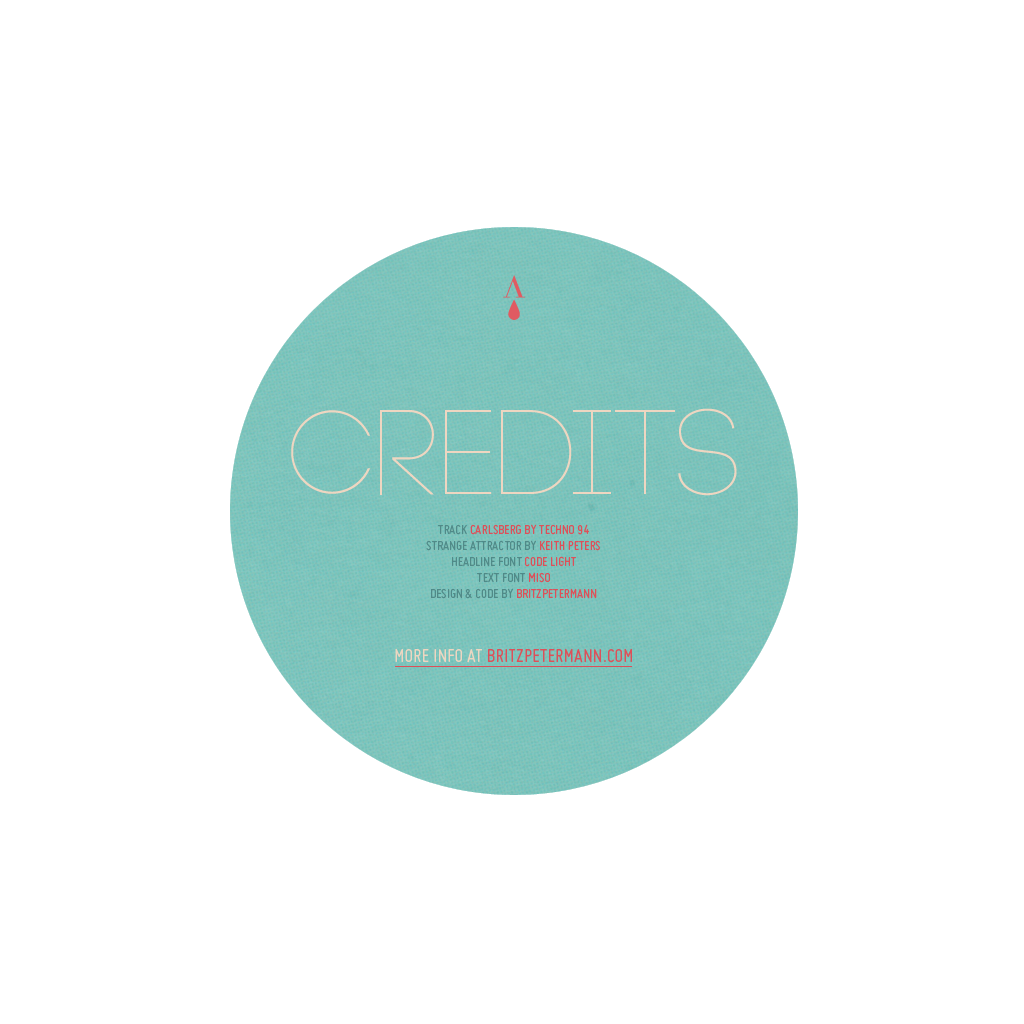
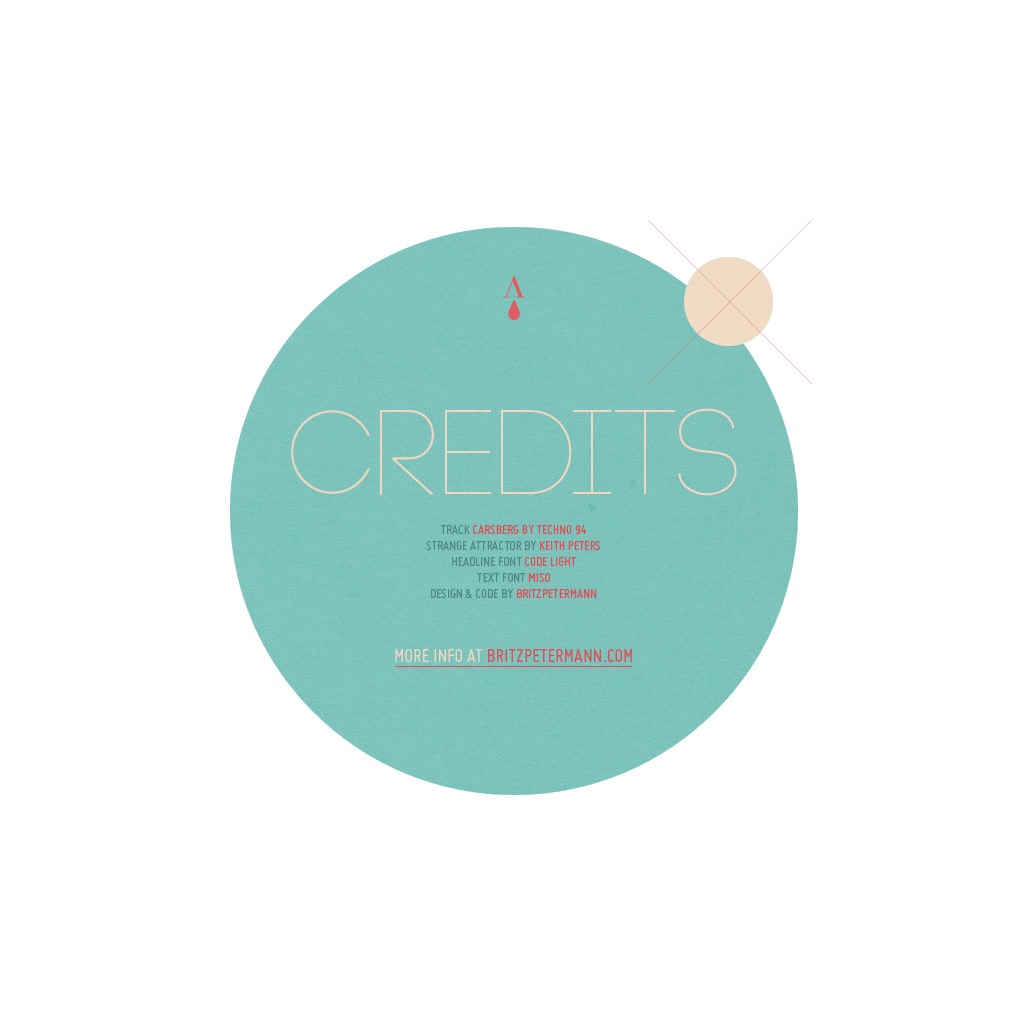
replaced background, added close button to credits fixed typo in credits

Changed region(s): [[0.6562, 0.25, 0.7812, 0.3438], [0.4375, 0.5, 0.5625, 0.5312]]

diff --git a/AKEMI/release/bin/Main.js b/AKEMI/release/bin/Main.js
@@ -1614,7 +1614,7 @@ sa.controller.Launcher.prototype.fontsLoaded = function() {
 	group.add(this.createTextureTask("image/Stones2.png",sa.view.TextureId.STONES_LEFT,this.textureRegistry.gl.LINEAR));
 	group.add(this.createTextureTask("image/RockLeft2.png",sa.view.TextureId.ROCK_LEFT,this.textureRegistry.gl.LINEAR));
 	group.add(this.createTextureTask("image/RockRight3.png",sa.view.TextureId.ROCK_RIGHT,this.textureRegistry.gl.LINEAR));
-	group.add(this.createTextureTask("image/BG.jpg",sa.view.TextureId.BACKGROUND,this.textureRegistry.gl.NEAREST));
+	group.add(this.createTextureTask("image/BG3.jpg",sa.view.TextureId.BACKGROUND,this.textureRegistry.gl.NEAREST));
 	group.add(this.createTextureTask("image/Credits2.png",sa.view.TextureId.CREDITS,this.textureRegistry.gl.LINEAR));
 	group.add(this.createImageTask("image/SplashWithText.jpg",sa.view.ImageId.SPLASH));
 	group.add(this.createImageTask("image/CreditsBt.png",sa.view.ImageId.CREDITS_BTN));
@@ -4689,6 +4689,7 @@ sa.view.CanvasView.prototype.handleLauncherStart = function(event) {
 	this.backgroundRenderer.cameraMatrix = this.commonModel.cameraMatrix;
 	this.backgroundRenderer.init(this.gl);
 	this.creditsRenderer = new sa.view.CreditsRenderer();
+	this.creditsRenderer.commonModel = this.commonModel;
 	this.creditsRenderer.texture = this.textureRegistry.get(sa.view.TextureId.CREDITS);
 	this.creditsRenderer.projectionMatrix = this.commonModel.projectionMatrix;
 	this.creditsRenderer.cameraMatrix = this.commonModel.cameraMatrix;
@@ -4755,7 +4756,6 @@ sa.view.CanvasView.prototype.renderScene = function() {
 	this.gl.viewport(0,0,this.canvas.width,this.canvas.height);
 	this.saRenderer.peak = this.commonModel.peak;
 	this.saRenderer.render(this.canvas.width,this.canvas.height);
-	this.creditsRenderer.showCredits = this.commonModel.showCredits;
 	this.creditsRenderer.render(this.canvas.width,this.canvas.height);
 	this.gl.enable(this.gl.BLEND);
 	this.gl.blendFunc(this.gl.SRC_ALPHA,this.gl.ONE);
@@ -5145,18 +5145,19 @@ sa.view.CreditsRenderer = function(p) { if( p === $_ ) return; {
 	this.moveSet.acceleration = 0.03;
 	this.buttons = new Array();
 	var lineHeight = 0.031;
-	this.createButton(0.17,0.015,0.035,"http://www.audiotool.com/track/carsberg");
-	this.createButton(0.17,0.015,0.035 + lineHeight,"http://www.bit-101.com");
-	this.createButton(0.17,0.015,0.035 + lineHeight * 2,"http://fontfabric.com/code-pro");
-	this.createButton(0.17,0.015,0.035 + lineHeight * 3,"http://www.omkrets.se/typografi");
-	this.createButton(0.17,0.015,0.035 + lineHeight * 4,"http://www.britzpetermann.com");
-	this.createButton(0.25,0.02,0.28,"http://www.britzpetermann.com/blog/akemi");
+	this.createButton(0.19,0.19,0.4,-0.4,"close");
+	this.createButton(0.17,0.015,0,0.035,"http://www.audiotool.com/track/carsberg");
+	this.createButton(0.17,0.015,0,0.035 + lineHeight,"http://www.bit-101.com");
+	this.createButton(0.17,0.015,0,0.035 + lineHeight * 2,"http://fontfabric.com/code-pro");
+	this.createButton(0.17,0.015,0,0.035 + lineHeight * 3,"http://www.omkrets.se/typografi");
+	this.createButton(0.17,0.015,0,0.035 + lineHeight * 4,"http://www.britzpetermann.com");
+	this.createButton(0.25,0.02,0,0.28,"http://www.britzpetermann.com/blog/akemi");
 }}
 sa.view.CreditsRenderer.__name__ = ["sa","view","CreditsRenderer"];
+sa.view.CreditsRenderer.prototype.commonModel = null;
 sa.view.CreditsRenderer.prototype.texture = null;
 sa.view.CreditsRenderer.prototype.projectionMatrix = null;
 sa.view.CreditsRenderer.prototype.cameraMatrix = null;
-sa.view.CreditsRenderer.prototype.showCredits = null;
 sa.view.CreditsRenderer.prototype.gl = null;
 sa.view.CreditsRenderer.prototype.shaderProgram = null;
 sa.view.CreditsRenderer.prototype.shaderProgramButton = null;
@@ -5195,7 +5196,7 @@ sa.view.CreditsRenderer.prototype.init = function(gl) {
 }
 sa.view.CreditsRenderer.prototype.render = function(width,height) {
 	this.moveSet.move();
-	if(this.showCredits) this.moveSet.to = this.defaultTargetIn;
+	if(this.commonModel.showCredits) this.moveSet.to = this.defaultTargetIn;
 	else this.moveSet.to = this.defaultTargetOut;
 	if(this.moveSet.current == this.defaultTargetOut) return;
 	this.gl.useProgram(this.shaderProgram);
@@ -5229,7 +5230,7 @@ sa.view.CreditsRenderer.prototype.render = function(width,height) {
 			viewWorldMatrixButton.appendScale(1,-1,1);
 			viewWorldMatrixButton.appendTranslation(0,this.moveSet.current,-7);
 			viewWorldMatrixButton.appendScale(scale,scale,1);
-			viewWorldMatrixButton.appendTranslation(0,button.y,0);
+			viewWorldMatrixButton.appendTranslation(button.pos.x,button.pos.y,0);
 			viewWorldMatrixButton.appendScale(button.size.x,button.size.y,1);
 			if(sa.view.CreditsRenderer.DEBUG_DRAW_HITAREAS) {
 				this.gl.bindBuffer(this.gl.ARRAY_BUFFER,this.vertexBuffer);
@@ -5264,10 +5265,10 @@ sa.view.CreditsRenderer.prototype.computeScale = function(width,height) {
 	tl.multiply(width / 2,-height / 2,1,1);
 	return 1024 / tl.x;
 }
-sa.view.CreditsRenderer.prototype.createButton = function(width,height,y,url) {
+sa.view.CreditsRenderer.prototype.createButton = function(width,height,x,y,url) {
 	var button = new sa.view.Button();
 	button.size = new Vec2(width,height);
-	button.y = y;
+	button.pos = new Vec2(x,y);
 	button.isActive = false;
 	button.url = url;
 	this.buttons.push(button);
@@ -5303,7 +5304,12 @@ sa.view.CreditsRenderer.prototype.mouseDown = function(mousePos) {
 		var button = _g1[_g];
 		++_g;
 		if(button.isActive) {
-			js.Lib.window.open(button.url,"_self");
+			if(button.url == "close") {
+				this.commonModel.showCredits = false;
+			}
+			else {
+				js.Lib.window.open(button.url,"_self");
+			}
 			return;
 		}
 	}
@@ -5314,7 +5320,7 @@ sa.view.Button = function(p) { if( p === $_ ) return; {
 }}
 sa.view.Button.__name__ = ["sa","view","Button"];
 sa.view.Button.prototype.size = null;
-sa.view.Button.prototype.y = null;
+sa.view.Button.prototype.pos = null;
 sa.view.Button.prototype.isActive = null;
 sa.view.Button.prototype.url = null;
 sa.view.Button.prototype.__class__ = sa.view.Button;
@@ -6281,7 +6287,7 @@ sa.Config.__rtti = "<class path=\"sa.Config\" params=\"\">\n\t<implements path=\
 sa.view.MainInterfaceView.__meta__ = { fields : { imageRegistry : { Inject : null}, commonModel : { Inject : null}, handleLauncherStart : { MessageHandler : null}, handleStageResize : { MessageHandler : null}}};
 sa.view.MainInterfaceView.__rtti = "<class path=\"sa.view.MainInterfaceView\" params=\"\">\n\t<implements path=\"haxe.rtti.Infos\"/>\n\t<imageRegistry><c path=\"GLImageRegistry\"/></imageRegistry>\n\t<commonModel><c path=\"sa.model.CommonModel\"/></commonModel>\n\t<stage public=\"1\"><c path=\"GLStage\"/></stage>\n\t<blend><c path=\"GLDisplayObject\"/></blend>\n\t<startButton><c path=\"GLInteractiveObject\"/></startButton>\n\t<creditsButton><c path=\"GLInteractiveObject\"/></creditsButton>\n\t<modeButton><c path=\"GLInteractiveObject\"/></modeButton>\n\t<handleLauncherStart set=\"method\" line=\"37\"><f a=\"event\">\n\t<c path=\"sa.event.LauncherStart\"/>\n\t<e path=\"Void\"/>\n</f></handleLauncherStart>\n\t<start public=\"1\" set=\"method\" line=\"76\"><f a=\"\"><e path=\"Void\"/></f></start>\n\t<handleStartFadeInComplete set=\"method\" line=\"82\"><f a=\"tween\">\n\t<c path=\"GLTween\"/>\n\t<e path=\"Void\"/>\n</f></handleStartFadeInComplete>\n\t<handeClick set=\"method\" line=\"87\"><f a=\"?obj\">\n\t<c path=\"GLInteractiveObject\"/>\n\t<e path=\"Void\"/>\n</f></handeClick>\n\t<handleStartFadeOutComplete set=\"method\" line=\"101\"><f a=\"tween\">\n\t<c path=\"GLTween\"/>\n\t<e path=\"Void\"/>\n</f></handleStartFadeOutComplete>\n\t<handleCreditsButtonClick set=\"method\" line=\"112\"><f a=\"obj\">\n\t<c path=\"GLInteractiveObject\"/>\n\t<e path=\"Void\"/>\n</f></handleCreditsButtonClick>\n\t<handleModeButtonClick set=\"method\" line=\"117\"><f a=\"obj\">\n\t<c path=\"GLInteractiveObject\"/>\n\t<e path=\"Void\"/>\n</f></handleModeButtonClick>\n\t<handleStageResize set=\"method\" line=\"123\"><f a=\"event\">\n\t<c path=\"sa.event.StageResize\"/>\n\t<e path=\"Void\"/>\n</f></handleStageResize>\n\t<layoutElements set=\"method\" line=\"128\"><f a=\"\"><e path=\"Void\"/></f></layoutElements>\n\t<new public=\"1\" set=\"method\" line=\"31\"><f a=\"\"><e path=\"Void\"/></f></new>\n</class>";
 sa.view.CanvasView.__meta__ = { fields : { commonModel : { Inject : null}, textureRegistry : { Inject : null}, mainInterfaceView : { Inject : null}, handleLauncherStart : { MessageHandler : null}, handleStageResize : { MessageHandler : null}}};
-sa.view.CanvasView.__rtti = "<class path=\"sa.view.CanvasView\" params=\"\">\n\t<implements path=\"haxe.rtti.Infos\"/>\n\t<commonModel><c path=\"sa.model.CommonModel\"/></commonModel>\n\t<textureRegistry><c path=\"GLTextureRegistry\"/></textureRegistry>\n\t<mainInterfaceView><c path=\"sa.view.MainInterfaceView\"/></mainInterfaceView>\n\t<gl><c path=\"WebGLRenderingContext\"/></gl>\n\t<canvas><c path=\"Canvas\"/></canvas>\n\t<framebuffer><c path=\"GLFramebuffer\"/></framebuffer>\n\t<backgroundRenderer><c path=\"sa.view.BackgroundRenderer\"/></backgroundRenderer>\n\t<underWaterRenderer><c path=\"sa.view.UnderWaterRenderer\"/></underWaterRenderer>\n\t<textureRenderer><c path=\"sa.view.TextureRenderer\"/></textureRenderer>\n\t<planktonRenderer><c path=\"sa.view.PlanktonRenderer\"/></planktonRenderer>\n\t<rocksRenderer><c path=\"sa.view.RocksRenderer\"/></rocksRenderer>\n\t<saRenderer><c path=\"sa.view.StrangeAttractorRenderer\"/></saRenderer>\n\t<displayListRenderer><c path=\"GLDisplayListRenderer\"/></displayListRenderer>\n\t<creditsRenderer><c path=\"sa.view.CreditsRenderer\"/></creditsRenderer>\n\t<handleLauncherStart set=\"method\" line=\"36\"><f a=\"event\">\n\t<c path=\"sa.event.LauncherStart\"/>\n\t<e path=\"Void\"/>\n</f></handleLauncherStart>\n\t<handleModeChanged set=\"method\" line=\"92\"><f a=\"newMode\">\n\t<c path=\"Int\"/>\n\t<e path=\"Void\"/>\n</f></handleModeChanged>\n\t<handleStageResize set=\"method\" line=\"98\"><f a=\"event\">\n\t<c path=\"sa.event.StageResize\"/>\n\t<e path=\"Void\"/>\n</f></handleStageResize>\n\t<updateCanvas set=\"method\" line=\"103\"><f a=\"\"><e path=\"Void\"/></f></updateCanvas>\n\t<tick set=\"method\" line=\"109\"><f a=\"\"><e path=\"Void\"/></f></tick>\n\t<renderScene set=\"method\" line=\"126\"><f a=\"\"><e path=\"Void\"/></f></renderScene>\n\t<renderInterface set=\"method\" line=\"158\"><f a=\"\"><e path=\"Void\"/></f></renderInterface>\n\t<new public=\"1\" set=\"method\" line=\"33\"><f a=\"\"><e path=\"Void\"/></f></new>\n</class>";
+sa.view.CanvasView.__rtti = "<class path=\"sa.view.CanvasView\" params=\"\">\n\t<implements path=\"haxe.rtti.Infos\"/>\n\t<commonModel><c path=\"sa.model.CommonModel\"/></commonModel>\n\t<textureRegistry><c path=\"GLTextureRegistry\"/></textureRegistry>\n\t<mainInterfaceView><c path=\"sa.view.MainInterfaceView\"/></mainInterfaceView>\n\t<gl><c path=\"WebGLRenderingContext\"/></gl>\n\t<canvas><c path=\"Canvas\"/></canvas>\n\t<framebuffer><c path=\"GLFramebuffer\"/></framebuffer>\n\t<backgroundRenderer><c path=\"sa.view.BackgroundRenderer\"/></backgroundRenderer>\n\t<underWaterRenderer><c path=\"sa.view.UnderWaterRenderer\"/></underWaterRenderer>\n\t<textureRenderer><c path=\"sa.view.TextureRenderer\"/></textureRenderer>\n\t<planktonRenderer><c path=\"sa.view.PlanktonRenderer\"/></planktonRenderer>\n\t<rocksRenderer><c path=\"sa.view.RocksRenderer\"/></rocksRenderer>\n\t<saRenderer><c path=\"sa.view.StrangeAttractorRenderer\"/></saRenderer>\n\t<displayListRenderer><c path=\"GLDisplayListRenderer\"/></displayListRenderer>\n\t<creditsRenderer><c path=\"sa.view.CreditsRenderer\"/></creditsRenderer>\n\t<handleLauncherStart set=\"method\" line=\"36\"><f a=\"event\">\n\t<c path=\"sa.event.LauncherStart\"/>\n\t<e path=\"Void\"/>\n</f></handleLauncherStart>\n\t<handleModeChanged set=\"method\" line=\"93\"><f a=\"newMode\">\n\t<c path=\"Int\"/>\n\t<e path=\"Void\"/>\n</f></handleModeChanged>\n\t<handleStageResize set=\"method\" line=\"99\"><f a=\"event\">\n\t<c path=\"sa.event.StageResize\"/>\n\t<e path=\"Void\"/>\n</f></handleStageResize>\n\t<updateCanvas set=\"method\" line=\"104\"><f a=\"\"><e path=\"Void\"/></f></updateCanvas>\n\t<tick set=\"method\" line=\"110\"><f a=\"\"><e path=\"Void\"/></f></tick>\n\t<renderScene set=\"method\" line=\"127\"><f a=\"\"><e path=\"Void\"/></f></renderScene>\n\t<renderInterface set=\"method\" line=\"158\"><f a=\"\"><e path=\"Void\"/></f></renderInterface>\n\t<new public=\"1\" set=\"method\" line=\"33\"><f a=\"\"><e path=\"Void\"/></f></new>\n</class>";
 haxe.Timer.arr = new Array();
 sa.view.CreditsRenderer.DEBUG_DRAW_HITAREAS = false;
 sa.controller.CameraController.__meta__ = { fields : { commonModel : { Inject : null}, handleLauncherStart : { MessageHandler : null}}};
